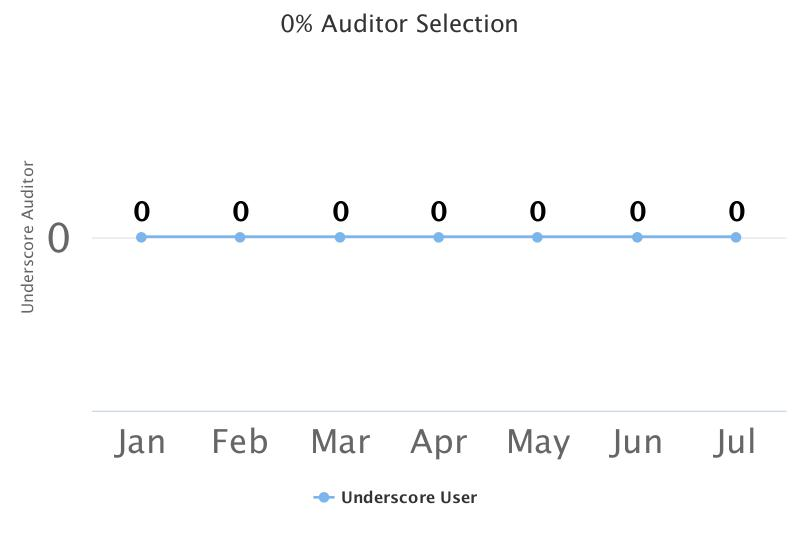
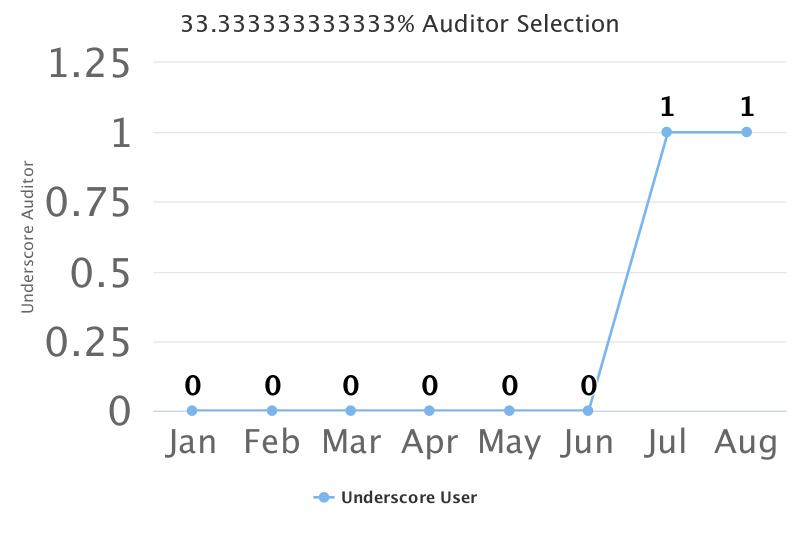
Audit tool: Auditor selection report changes

diff --git a/web/modules/custom/aps_audit_report_analysis/js/aps_dashboard_auditor_report.js b/web/modules/custom/aps_audit_report_analysis/js/aps_dashboard_auditor_report.js
@@ -6,13 +6,13 @@
       var auditor_data = JSON.parse(drupalSettings.auditor_data);
       var total_user = drupalSettings.total_user;
       var selected_user_count = drupalSettings.selected_user_count;
-      var percentage_auditor = Math.round(selected_user_count/total_user * 100)
+      var percentage_auditor = Math.round(selected_user_count/total_user * 100);
       Highcharts.chart('container-element-auditor-report', {
 		    chart: {
 		        type: 'line'
 		    },
 		    title: {
-		        text: percentage_auditor+'% Auditor Selection'
+		        text: percentage_auditor+'% Auditor Selection<br>Total Users: '+total_user
 		    },
 		    subtitle: {
 		        text: ''

diff --git a/web/modules/custom/aps_audit_report_analysis/src/Controller/GenerateReports.php b/web/modules/custom/aps_audit_report_analysis/src/Controller/GenerateReports.php
@@ -158,6 +158,26 @@ class GenerateReports extends ControllerBase {
         }
         $html .= '</table>';
       }
+      else{
+        $html .= '<table id = "qualified-auditors" style="width:100%;">
+          <thead>
+              <tr>
+                  <th>'.$this->t('Sl No.').'</th>
+                  <th>'.$this->t('Name: ').'</th>
+                  <th>'.$this->t('Score: ').'</th>
+                  <th>'.$this->t('Function: ').'</th>
+              </tr>
+          </thead>';
+        $html .= '<tfoot>
+            <tr>
+                <th></th>
+                <th></th>
+                <th><b>No content Found</b></th>
+                <th></th>
+            </tr>
+        </tfoot><br><br>';
+
+      }
       $html .= '</br>';
       $html .= ' <img src='.$auditor_chart_path.' height="700" width="450"> ';
       $html .= '<h1>List of Process/Product/Business Process </h1>';
@@ -240,30 +260,50 @@ class GenerateReports extends ControllerBase {
     $current_month = date('n');
     $user_count = 0;
     $selected_user_count = 0;
+    $total = 0;
     foreach ($get_all_months_name as $key => $month_name) {
       if($key<=$current_month){
         $format_for_first_day = 'Y-'. $key . '-01';
         $format_for_last_day = 'Y-m-t';
         $first_last_date_monthly[$month_name]['first_day'] = date($format_for_first_day);
         $first_last_date_monthly[$month_name]['last_day'] = date($format_for_last_day, strtotime(date($format_for_first_day)));
-        $first_last_date_monthly[$month_name]['count_underscore_auditor'] = count(getAuditOPtions('auditor_selection','/auditor-and-audit-export/'.$unit_reference.'?created[min]='.$first_last_date_monthly[$month_name]['first_day'].'&created[max]='.$first_last_date_monthly[$month_name]['last_day'].'&field_score_value=6'));
-        $first_last_date_monthly[$month_name]['audit_count'] = count(getAuditOPtions('auditor_selection','/auditor-and-audit-export/'.$unit_reference.'?created[min]='.$first_last_date_monthly[$month_name]['first_day'].'&created[max]='.$first_last_date_monthly[$month_name]['last_day']));
+        $first_last_date_monthly[$month_name]['count_underscore_auditor'] = count(getAuditOPtions('auditor_selection','/auditor-and-audit-export/'.$unit_reference.'?field_start_date_value[min]='.timestampFromDate($first_last_date_monthly[$month_name]['first_day']).'&field_start_date_value[max]='.timestampFromDate($first_last_date_monthly[$month_name]['last_day']).'&field_score_value=6'));
+        
+        $first_last_date_monthly[$month_name]['audit_count'] = count(getAuditOPtions('auditor_selection','/auditor-and-audit-export/'.$unit_reference.'?field_start_date_value[min]='.timestampFromDate($first_last_date_monthly[$month_name]['first_day']).'&field_start_date_value[max]='.timestampFromDate($first_last_date_monthly[$month_name]['last_day'])));
 
-        $user_count += count(getAuditOPtions('auditor_selection','/auditor-and-audit-export/'.$unit_reference.'?created[min]='.$first_last_date_monthly[$month_name]['first_day'].'&created[max]='.$first_last_date_monthly[$month_name]['last_day']));
-        $selected_user_count += $first_last_date_monthly[$month_name]['count_underscore_auditor'] = count(getAuditOPtions('auditor_selection','/auditor-and-audit-export/'.$unit_reference.'?created[min]='.$first_last_date_monthly[$month_name]['first_day'].'&created[max]='.$first_last_date_monthly[$month_name]['last_day'].'&field_score_value=6'));
-
-        $first_last_date_monthly['total_user'] = $user_count;
-        $first_last_date_monthly['selected_user_count'] = $selected_user_count;
+        $selected_user_count = $first_last_date_monthly[$month_name]['count_underscore_auditor'];
+        $first_last_date_monthly[$month_name]['selected_user_count'] = $selected_user_count;
         $plot_data['data'][] = [$first_last_date_monthly[$month_name]['count_underscore_auditor']];
+          $total += $first_last_date_monthly[$month_name]['count_underscore_auditor'];
+          $first_last_date_monthly['total'] = $total;
       }
     }
+    
+    $user_count_query = \Drupal::database()->select('user__field_reference_id', 'n');
+    $user_count_query->fields('n', ['field_reference_id_target_id','entity_id']);
+    $user_count_query->condition('n.bundle', 'user');
+    $user_count_query->condition('n.field_reference_id_target_id', $unit_reference);
+    $users = $user_count_query->execute()->fetchAll();
+    $user_count = count($users);
+
+    $query = \Drupal::database()->select('user__field_reference_id', 'n');
+    $query->join('node__field_auditor', 'rf', 'n.entity_id = rf.field_auditor_target_id');
+    $query->fields('n', ['entity_id']);
+    $query->fields('rf', ['entity_id']);
+    $query->condition('n.bundle', 'user');
+    $query->condition('n.field_reference_id_target_id', $unit_reference);
+    $unique_users_audit = $query->execute()->fetchAll();
+    foreach ($unique_users_audit as $key => $value) {
+      $user_[$value->entity_id] = $value->rf_entity_id;
+    }
+    $unique_user_ids = count(array_unique($user_));
     $build['audit_auditor_report']['auditor_report'] = [
       '#type' => 'fieldset',
     ];
     $build['audit_auditor_report']['auditor_report'] ['#attached']['library'][] = 'aps_audit_report_analysis/aps_dashboard_auditor_report_js';
     $build['audit_auditor_report']['auditor_report']['#attached']['drupalSettings']['auditor_data'] = json_encode($plot_data['data']);
-    $build['audit_auditor_report']['auditor_report']['#attached']['drupalSettings']['total_user'] = $first_last_date_monthly['total_user'];
-    $build['audit_auditor_report']['auditor_report']['#attached']['drupalSettings']['selected_user_count'] = $first_last_date_monthly['selected_user_count'];
+    $build['audit_auditor_report']['auditor_report']['#attached']['drupalSettings']['total_user'] = $user_count;
+    $build['audit_auditor_report']['auditor_report']['#attached']['drupalSettings']['selected_user_count'] = $unique_user_ids;
     $build['audit_auditor_report']['auditor_report']['container_element_audit_auditor_report']['#markup'] = '<div id="container-element-auditor-report" style="min-width: 310px; height: 400px; max-width: 600px; margin: 0 auto"></div>';
 
     $selected_user = $build['audit_auditor_report']['auditor_report']['#attached']['drupalSettings']['selected_user_count'];

diff --git a/web/modules/custom/aps_audit_report_analysis/src/Plugin/Block/AuditorSelection.php b/web/modules/custom/aps_audit_report_analysis/src/Plugin/Block/AuditorSelection.php
@@ -30,36 +30,50 @@ class AuditorSelection extends BlockBase {
     $current_month = date('n');
     $user_count = 0;
     $selected_user_count = 0;
+    $total = 0;
     foreach ($get_all_months_name as $key => $month_name) {
       if($key<=$current_month){
 	      $format_for_first_day = 'Y-'. $key . '-01';
 	      $format_for_last_day = 'Y-m-t';
 	      $first_last_date_monthly[$month_name]['first_day'] = date($format_for_first_day);
 	      $first_last_date_monthly[$month_name]['last_day'] = date($format_for_last_day, strtotime(date($format_for_first_day)));
-	      $first_last_date_monthly[$month_name]['count_underscore_auditor'] = count(getAuditOPtions('auditor_selection','/auditor-and-audit-export/'.$uri[1].'?created[min]='.$first_last_date_monthly[$month_name]['first_day'].'&created[max]='.$first_last_date_monthly[$month_name]['last_day'].'&field_score_value=6'));
-	      $first_last_date_monthly[$month_name]['audit_count'] = count(getAuditOPtions('auditor_selection','/auditor-and-audit-export/'.$uri[1].'?created[min]='.$first_last_date_monthly[$month_name]['first_day'].'&created[max]='.$first_last_date_monthly[$month_name]['last_day']));
+	      $first_last_date_monthly[$month_name]['count_underscore_auditor'] = count(getAuditOPtions('auditor_selection','/auditor-and-audit-export/'.$uri[1].'?field_start_date_value[min]='.timestampFromDate($first_last_date_monthly[$month_name]['first_day']).'&field_start_date_value[max]='.timestampFromDate($first_last_date_monthly[$month_name]['last_day']).'&field_score_value=6'));
+        
+	      $first_last_date_monthly[$month_name]['audit_count'] = count(getAuditOPtions('auditor_selection','/auditor-and-audit-export/'.$uri[1].'?field_start_date_value[min]='.timestampFromDate($first_last_date_monthly[$month_name]['first_day']).'&field_start_date_value[max]='.timestampFromDate($first_last_date_monthly[$month_name]['last_day'])));
 
-	      $selected_user_count += $first_last_date_monthly[$month_name]['count_underscore_auditor'] = count(getAuditOPtions('auditor_selection','/auditor-and-audit-export/'.$uri[1].'?created[min]='.$first_last_date_monthly[$month_name]['first_day'].'&created[max]='.$first_last_date_monthly[$month_name]['last_day'].'&field_score_value=6'));
-
-	      // $first_last_date_monthly['total_user'] = $user_count;
-	      $first_last_date_monthly['selected_user_count'] = $selected_user_count;
+	      $selected_user_count = $first_last_date_monthly[$month_name]['count_underscore_auditor'];
+	      $first_last_date_monthly[$month_name]['selected_user_count'] = $selected_user_count;
 	      $plot_data['data'][] = [$first_last_date_monthly[$month_name]['count_underscore_auditor']];
+          $total += $first_last_date_monthly[$month_name]['count_underscore_auditor'];
+          $first_last_date_monthly['total'] = $total;
 	    }
     }
-    $query = \Drupal::database()->select('user__field_reference_id', 'n');
-    $query->fields('n', ['field_reference_id_target_id','entity_id']);
-    $query->condition('n.bundle', 'user');
-    $query->condition('n.field_reference_id_target_id', $uri[1]);
-    $users = $query->execute()->fetchAll();
+    
+    $user_count_query = \Drupal::database()->select('user__field_reference_id', 'n');
+    $user_count_query->fields('n', ['field_reference_id_target_id','entity_id']);
+    $user_count_query->condition('n.bundle', 'user');
+    $user_count_query->condition('n.field_reference_id_target_id', $uri[1]);
+    $users = $user_count_query->execute()->fetchAll();
     $user_count = count($users);
 
+    $query = \Drupal::database()->select('user__field_reference_id', 'n');
+    $query->join('node__field_auditor', 'rf', 'n.entity_id = rf.field_auditor_target_id');
+    $query->fields('n', ['entity_id']);
+    $query->fields('rf', ['entity_id']);
+    $query->condition('n.bundle', 'user');
+    $query->condition('n.field_reference_id_target_id', $uri[1]);
+    $unique_users_audit = $query->execute()->fetchAll();
+    foreach ($unique_users_audit as $key => $value) {
+      $user_[$value->entity_id] = $value->rf_entity_id;
+    }
+    $unique_user_ids = count(array_unique($user_));
     $build['audit_auditor_report']['auditor_report'] = [
       '#type' => 'fieldset',
     ];
     $build['audit_auditor_report']['auditor_report'] ['#attached']['library'][] = 'aps_audit_report_analysis/aps_dashboard_auditor_report_js';
     $build['audit_auditor_report']['auditor_report']['#attached']['drupalSettings']['auditor_data'] = json_encode($plot_data['data']);
     $build['audit_auditor_report']['auditor_report']['#attached']['drupalSettings']['total_user'] = $user_count;
-    $build['audit_auditor_report']['auditor_report']['#attached']['drupalSettings']['selected_user_count'] = $first_last_date_monthly['selected_user_count'];
+    $build['audit_auditor_report']['auditor_report']['#attached']['drupalSettings']['selected_user_count'] = $unique_user_ids;
     $build['audit_auditor_report']['auditor_report']['container_element_audit_auditor_report']['#markup'] = '<div id="container-element-auditor-report" style="min-width: 310px; height: 400px; max-width: 600px; margin: 0 auto"></div>';
 
     $selected_user = $build['audit_auditor_report']['auditor_report']['#attached']['drupalSettings']['selected_user_count'];
